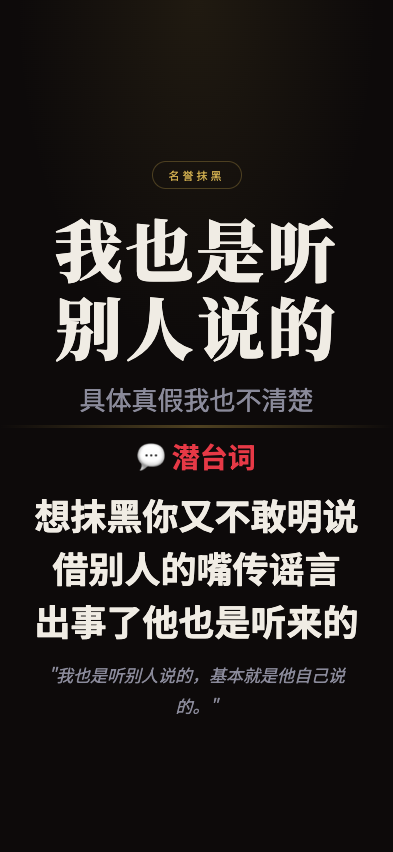
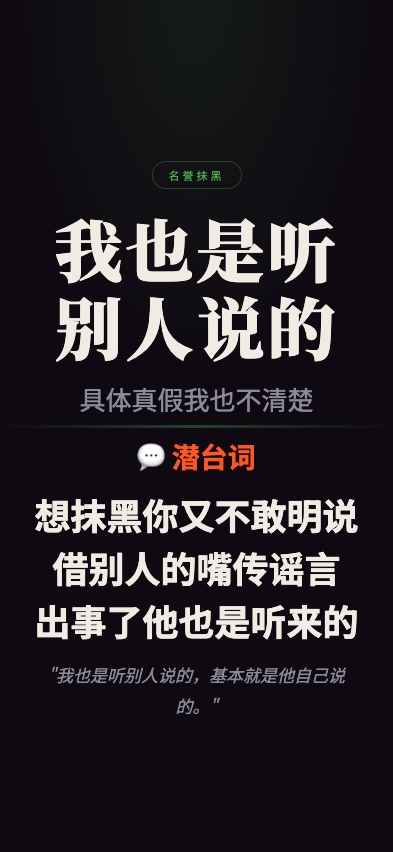
feat: 职场生存法则 screenshot - woyeshitingbierenshuode

Changed region(s): [[0.3053, 0.4883, 0.7023, 0.5493], [0.4275, 0.1831, 0.5802, 0.2136]]

diff --git a/wuliao-tools/tools/biz-speak/scenes/woyeshitingbierenshuode.html b/wuliao-tools/tools/biz-speak/scenes/woyeshitingbierenshuode.html
@@ -7,11 +7,11 @@
 <link href="https://fonts.googleapis.com/css2?family=Noto+Serif+SC:wght@400;700;900&family=Noto+Sans+SC:wght@300;400;700&display=swap" rel="stylesheet">
 <style>
   :root {
-    --bg: #0d0a0a;
+    --bg: #0f0a12;
     --text: #f0ece4;
     --text-dim: #8a8a9a;
-    --gold: #c9a84c;
-    --red: #e63946;
+    --gold: #4caf50;
+    --red: #ff5722;
   }
   * { margin:0; padding:0; box-sizing:border-box; }
   html, body { width:100%; height:100%; overflow:hidden; }
@@ -24,11 +24,11 @@
   }
   body::before {
     content:''; position:absolute; top:0; left:0; right:0; height:45%;
-    background:radial-gradient(ellipse at 50% 0%, rgba(201,168,76,0.1) 0%, transparent 65%);
+    background:radial-gradient(ellipse at 50% 0%, rgba(76,175,80,0.1) 0%, transparent 65%);
     pointer-events:none; z-index:0;
   }
   .top { flex:1; display:flex; flex-direction:column; align-items:center; justify-content:flex-end; padding:4px 28px 8px; position:relative; z-index:1; }
-  .tag { font-size:11px; letter-spacing:3px; color:var(--gold); border:1px solid rgba(201,168,76,0.3); padding:5px 16px; border-radius:50px; margin-bottom:20px; }
+  .tag { font-size:11px; letter-spacing:3px; color:var(--gold); border:1px solid rgba(76,175,80,0.3); padding:5px 16px; border-radius:50px; margin-bottom:20px; }
   .main-title { font-family:'Noto Serif SC'; font-size:68px; font-weight:900; text-align:center; line-height:1.15; letter-spacing:3px; min-width:0; overflow-wrap:break-word; max-width:92%; }
   .sub-title { font-size:26px; color:var(--text-dim); text-align:center; margin-top:14px; }
   .divider { width:100%; height:3px; background:linear-gradient(90deg,transparent,var(--gold),transparent); opacity:0.35; flex-shrink:0; position:relative; z-index:1; }
